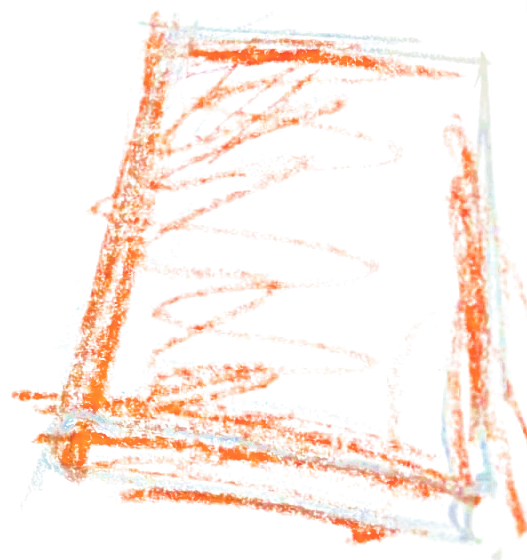
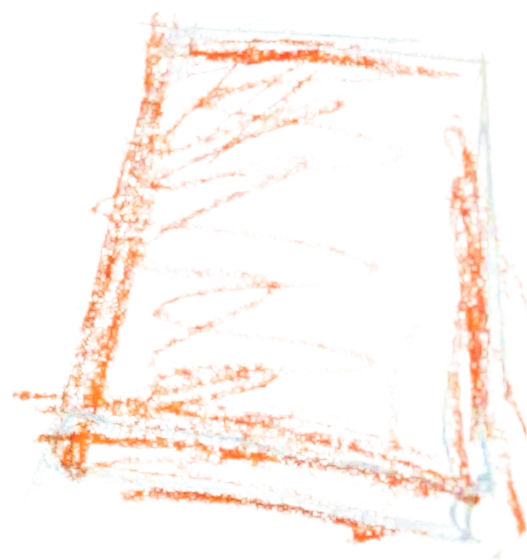
Experiment: Gandhar's figure drawing as the character (intro and main page); white scroll bubble with black text; thinner desk drawings and morph strokes

diff --git a/index.html b/index.html
@@ -751,6 +751,7 @@
   #hero .hsolid, #figSvg .hsolid { fill: #000; }
   #figSvg .hpen, #hero .hpen { stroke: #ece8dc; }
   #heroLine .hword { fill: #ece8dc; }
+  #figSvg #hfBubbleFill { fill: #fff; } #figSvg #heroScroll { fill: #111; }   /* (the "scroll" bubble: white, black writing) */
   @media (min-width: 821px), (min-aspect-ratio: 85/100) { #workPage { --pen: #ece8dc; } #workPage .wpFrame { stroke: #ece8dc; } }
 </style>
 </head>
@@ -809,7 +810,7 @@
       <g filter="url(#boilFig)"><polyline id="leg0" class="ln"></polyline>
       <polyline id="leg1" class="ln"></polyline></g>
       <g id="figure" filter="url(#boilFig)">
-        <path class="ln solid" d="M -1.1 -112.8 L -9 0 L 9 0 L 1.1 -112.8 M 0 -112.8 C 2.5 -120 6.5 -131 5 -137.5 C 3.5 -144.5 -3.5 -144.5 -5 -137.5 C -6.5 -131 -2.5 -120 0 -112.8 Z"></path>
+        <image href="assets/drawn/figure.webp" x="-22.5" y="-144" width="45" height="144" preserveAspectRatio="none"></image>   <!-- (Gandhar's own drawing of the figure) -->
       </g>
     </g>
 
@@ -1548,7 +1549,8 @@
          arm, and a hand-drawn speech bubble with "scroll" appears beside the hand (paths set in JS) -->
     <polyline id="hfLeg0" class="hpen"></polyline>
     <polyline id="hfLeg1" class="hpen"></polyline>
-    <path id="hfBody" class="hpen hsolid" d="M 0 0"></path>
+    <path id="hfBody" class="hpen hsolid" d="M 0 0" style="display:none"></path>
+    <image id="hfBodyImg" href="assets/drawn/figure.webp" x="0" y="0" width="1" height="1" preserveAspectRatio="none"></image>   <!-- (Gandhar's own drawing of the figure) -->
     <path id="hfArm" class="hpen" d="M 0 0" style="visibility:hidden"></path>
     <g id="hfBubble" style="opacity:0" transform="translate(67.5 -22)">   <!-- its tail just above the raised hand (moves with HX) -->
       <path id="hfBubbleFill" class="hsolid" style="opacity:0" d="M 166 796 C 158 777, 181 760, 216 759 C 255 758, 284 770, 282 790 C 280 809, 251 820, 213 820 C 196 820, 183 817, 174 812 C 168 818, 160 823, 151 826 C 158 820, 163 813, 165 808 C 162 804, 163 800, 166 796"></path>   <!-- paper inside the cloud, so nothing shows through -->
@@ -2232,7 +2234,7 @@
             ? addStroke(erasers.cord.mk, [ap(SRC.cord.M, 0.5, 1.02), ap(SRC.cord.M, 0.5, -0.02)], '#000', 24)        // (the whole cord is pulled up and away)
             : j.s === 'fig' ? (() => { const r = q('#walker').getBoundingClientRect(); return addStroke(erasers.fig.mk, [[r.left + r.width / 2, r.top - 6], [r.left + r.width / 2, r.bottom + 6]], '#000', r.width * 1.6 + 30); })()   // (the whole figure, legs too)
             : addStroke(erasers[j.s].mk, S.slice(0, N + 1), '#000', Math.max(24, span(S0) * 1.35))) : null;   // (wide enough to take the whole drawing)
-          const ls = [0, 1].map(k => { const p = document.createElementNS(NS, 'path'); p.setAttribute('fill', 'none'); p.setAttribute('stroke', '#f3f1ea'); p.setAttribute('stroke-width', k ? 1.1 : 1.9); p.setAttribute('stroke-opacity', k ? 0.6 : 0.95); p.setAttribute('stroke-linejoin', 'round'); p.setAttribute('stroke-linecap', 'round'); lines.appendChild(p); return p; });
+          const ls = [0, 1].map(k => { const p = document.createElementNS(NS, 'path'); p.setAttribute('fill', 'none'); p.setAttribute('stroke', '#f3f1ea'); p.setAttribute('stroke-width', k ? 0.6 : 1.1); p.setAttribute('stroke-opacity', k ? 0.55 : 0.9); p.setAttribute('stroke-linejoin', 'round'); p.setAttribute('stroke-linecap', 'round'); lines.appendChild(p); return p; });
           return { P, L, Ls, Lb, Lt, band, fill, er, ls, d: n * STAG };
         }).filter(Boolean);
         document.getElementById('boilG').style.visibility = 'hidden';          // (the copies take over, unseen)
@@ -2323,6 +2325,7 @@
       body.setAttribute('d',
         `M ${hx - 2.5} ${854 + hy} C ${hx - 6} ${840 + hy}, ${hx - 8} ${818 + hy}, ${hx - 6} ${810 + hy} C ${hx - 4} ${801 + hy}, ${hx + 4} ${801 + hy}, ${hx + 6} ${810 + hy} C ${hx + 8} ${818 + hy}, ${hx + 6} ${840 + hy}, ${hx + 2.5} ${854 + hy} ` +
         `M ${hx - 2.5} ${854 + hy} Q ${(hx + bx - wb) / 2 - bow} ${(854 + hy + by) / 2}, ${bx - wb} ${by} L ${bx + wb} ${by} L ${hx + 2.5} ${854 + hy}`);   // the body starts right at the neck (5 wide, left open)
+      { const top = 800 + hy, hgt = by - top, w = hgt * 119 / 381, bi = document.getElementById('hfBodyImg'); bi.setAttribute('x', ((hx + bx) / 2 - w / 2).toFixed(1)); bi.setAttribute('y', top.toFixed(1)); bi.setAttribute('width', w.toFixed(1)); bi.setAttribute('height', hgt.toFixed(1)); }   // (the drawing, head to base)
       // as the reference (and the intro): flipbook legs at ~2 steps a second, each pose held ~0.2 s, a natural stride; the body glides on between steps
       const uw = Math.floor(u * 0.318 / 0.4) * 0.4;   /* (2 steps a second over the 1.4 s walk) */
       const legs = gaitLegs(uw, F.stride, x, BY, K, 1, WALK.D, 0.6);
